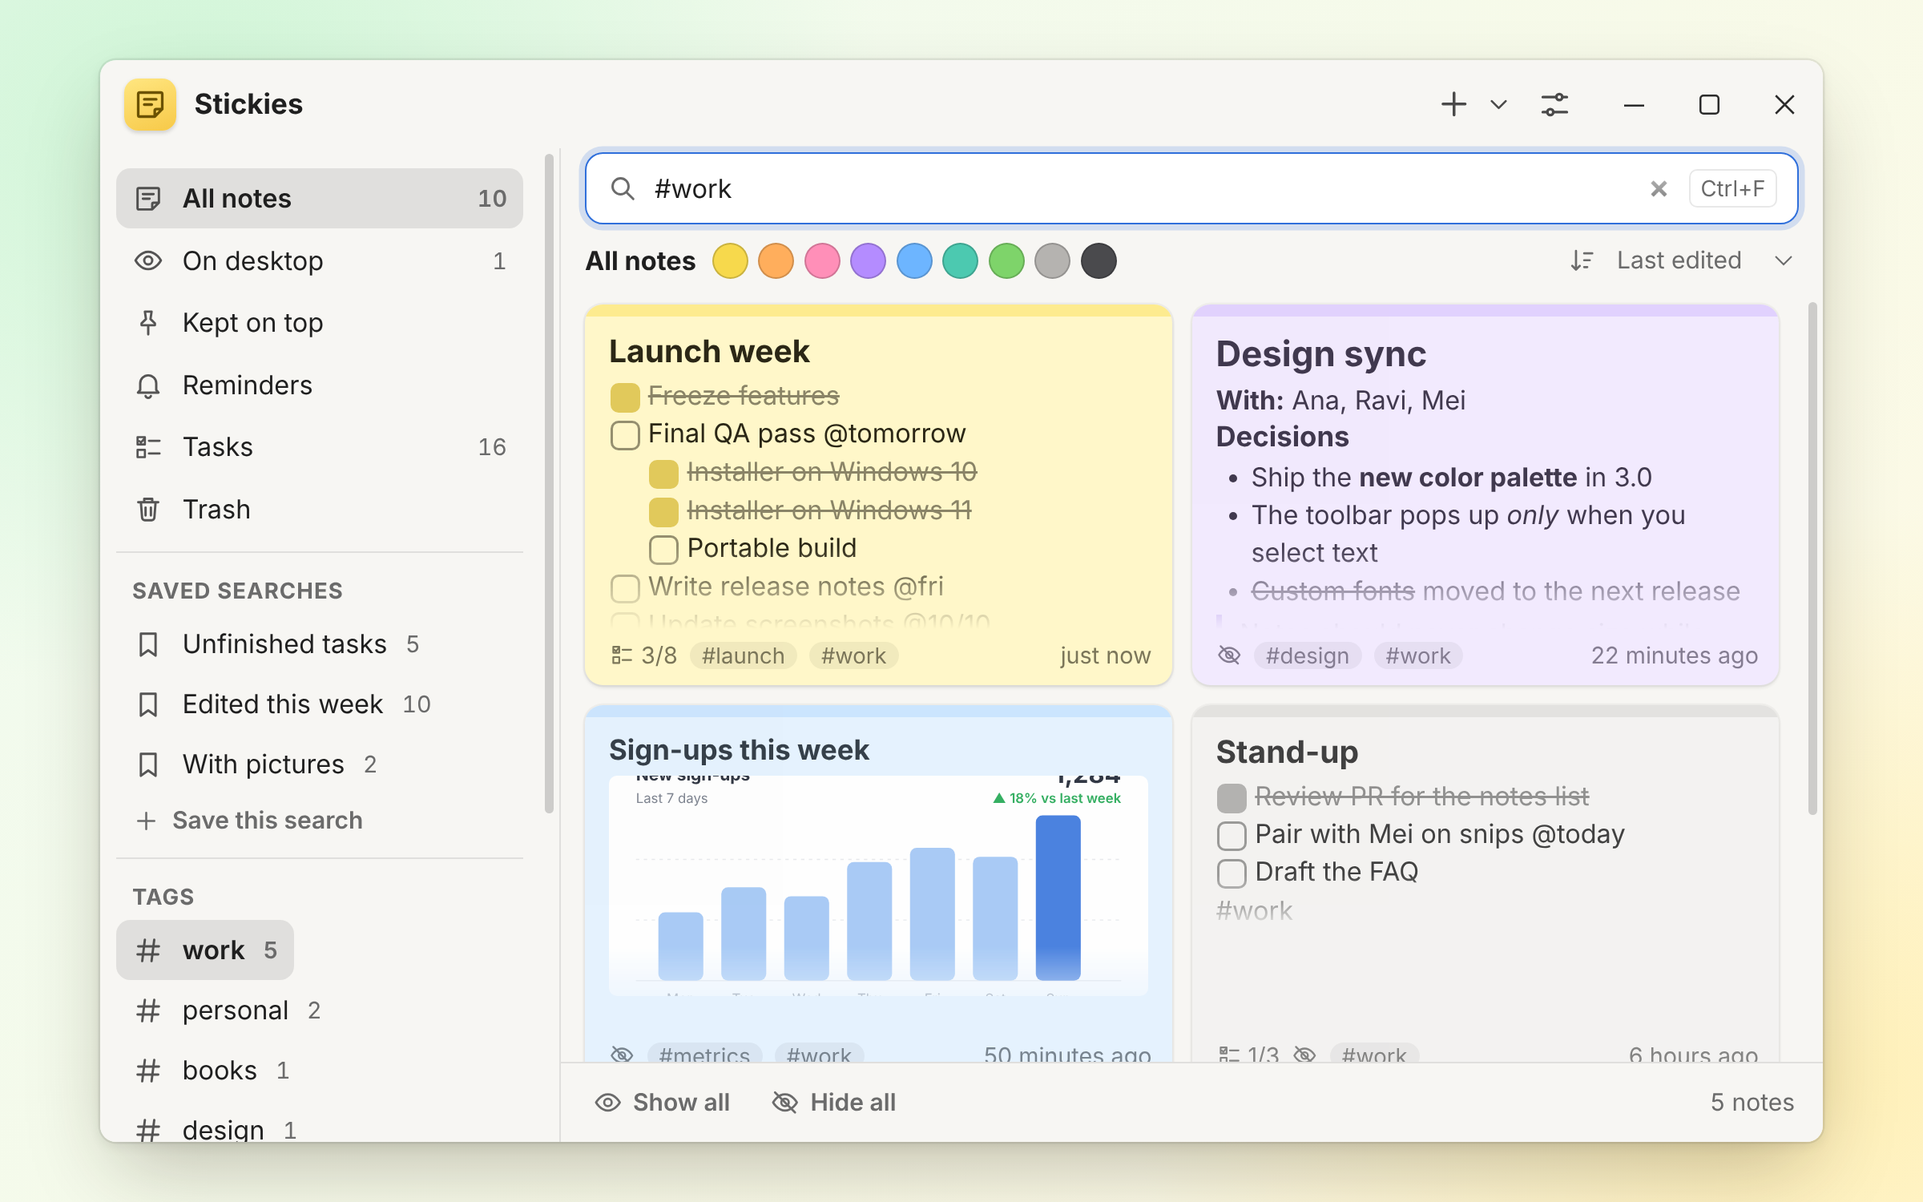
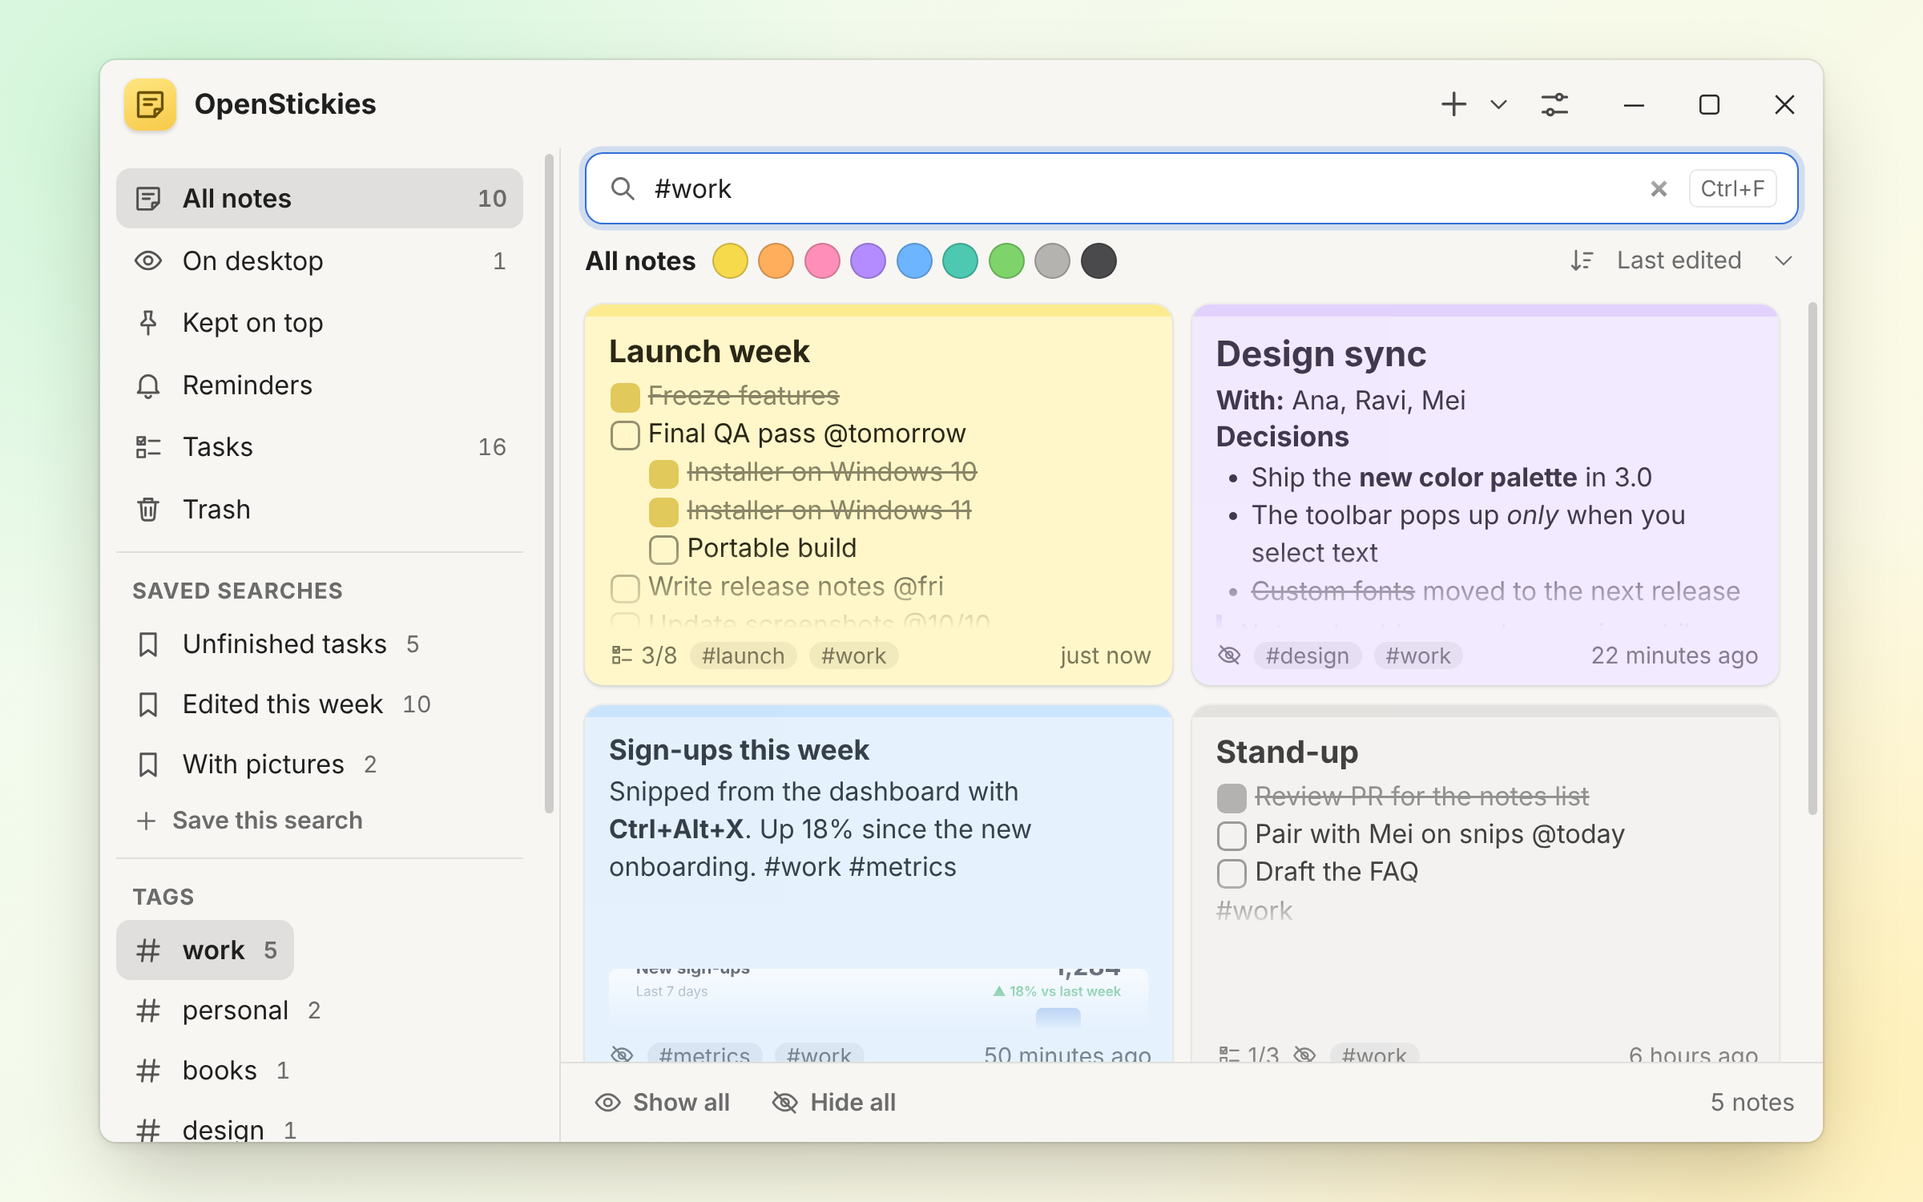
Use the OpenStickies name in the app and run the data migration on start
- Window titles, the notes list app bar, tray tooltip and menu, backup
  file names and dialogs, history window and OpenCode plugin text now
  say OpenStickies. Identifiers stay as they are: app:// and sticky-img://
  URLs, the .stickies home folder, window.stickies, the stickies_* tools,
  the plugin's file name and the .stickies.json backup extension
- On first start, init() copies %APPDATA%\Stickies\data into the new
  folder before the store loads (skipped with STICKIES_USER_DATA). If the
  copy fails, a dialog says where the notes are and offers to quit or
  start without them
- After a migration, the old Stickies login item is removed and
  'launch at login' is registered for the new program if it was on
- The OpenCode plugin also reads %APPDATA%\OpenStickies\data\api.json
  and recognises the plan rule an older copy of itself added
- Regenerated the notes list and tasks screenshots for the new title

Claude-Session: https://claude.ai/code/session_01BZHiiskqCt7fiV7jpXCbn7

Changed region(s): [[0.3125, 0.644, 0.625, 0.8587], [0.0938, 0.0613, 0.1875, 0.092]]

diff --git a/src/integrations/opencode-plugin.js b/src/integrations/opencode-plugin.js
@@ -1,5 +1,5 @@
-// Stickies for OpenCode
-// ---------------------
+// OpenStickies for OpenCode
+// -------------------------
 // Mirrors what the OpenCode agent is doing into a sticky note on your Windows desktop:
 // one note per task (session), with the agent's to-do list as a checklist — done steps
 // ticked, the current step marked, and what's still left open. Sub-agents' to-do lists
@@ -7,23 +7,26 @@
 //
 // It also gives the agent tools to make notes on request: stickies_create, stickies_update,
 // stickies_check and stickies_list. The agent can only change notes it created.
-// While Stickies runs it asks the agent to plan every multi-part task as a to-do list, so
+// While OpenStickies runs it asks the agent to plan every multi-part task as a to-do list, so
 // each one gets a sticky (Settings → OpenCode → "Always plan multi-part tasks").
 //
-// Installed by Stickies (Settings → OpenCode → Connect) into ~/.config/opencode/plugins/.
-// Talks only to Stickies on 127.0.0.1, using the token Stickies writes to its api.json.
-// Does nothing if Stickies isn't running.
+// Installed by OpenStickies (Settings → OpenCode → Connect) into ~/.config/opencode/plugins/.
+// Talks only to OpenStickies on 127.0.0.1, using the token OpenStickies writes to its api.json.
+// Does nothing if OpenStickies isn't running.
 
 import { readFileSync, statSync } from 'node:fs';
 import { join, basename } from 'node:path';
 import { homedir } from 'node:os';
 
-// Stickies writes the same api.json to both places. The home-folder copy is the one to trust on
-// Windows: if Stickies was started by a packaged app (e.g. Claude Desktop), its AppData copy lands
-// in that app's private folder and can't be seen from here. Older Stickies builds only write AppData.
+// OpenStickies writes the same api.json to both places. The home-folder copy is the one to trust on
+// Windows: if OpenStickies was started by a packaged app (e.g. Claude Desktop), its AppData copy lands
+// in that app's private folder and can't be seen from here. Older builds only write AppData, and
+// builds from before the rename write it under %APPDATA%\Stickies rather than %APPDATA%\OpenStickies.
+const APPDATA = process.env.APPDATA || join(homedir(), 'AppData', 'Roaming');
 const API_FILES = process.env.STICKIES_API_FILE ? [process.env.STICKIES_API_FILE] : [
   join(homedir(), '.stickies', 'api.json'),
-  join(process.env.APPDATA || join(homedir(), 'AppData', 'Roaming'), 'Stickies', 'data', 'api.json')
+  join(APPDATA, 'OpenStickies', 'data', 'api.json'),
+  join(APPDATA, 'Stickies', 'data', 'api.json')
 ];
 
 // The most recently written file wins, so a copy left behind by an older run can't shadow a live one.
@@ -41,22 +44,26 @@ function readApi() {
 
 const isPlaceholderTitle = (t) => !t || /^(New|Child) session - /i.test(t);
 
-// Added to the agent's instructions while Stickies is running (Settings → OpenCode →
+// Added to the agent's instructions while OpenStickies is running (Settings → OpenCode →
 // "Always plan multi-part tasks"), so every task with more than one part gets a sticky.
 const PLAN_RULE = [
-  'The user\'s desktop sticky notes (Stickies) are connected to this session.',
+  'The user\'s desktop sticky notes (OpenStickies) are connected to this session.',
   'Whenever a request involves two or more distinct subtasks or steps, use the todowrite tool BEFORE starting the work',
   'to write the plan as a to-do list (one item per subtask), then keep it current: mark the item you are working on',
   'in_progress and mark each item completed as soon as it is done. Each to-do list appears as a sticky note on the user\'s desktop,',
   'so do this even for short tasks that have more than one part. Single-step requests and plain questions do not need a to-do list.'
 ].join(' ');
 
+// How to spot the rule among the agent's instructions so it is only added once. The second
+// marker is the wording used before the app was renamed, in case an older copy of this plugin added it.
+const PLAN_RULE_MARKERS = ['desktop sticky notes (OpenStickies)', 'desktop sticky notes (Stickies)'];
+
 // A note appears once a plan has at least this many items (across the task and its sub-agents).
 const MIN_ITEMS = 2;
 
 async function callStickies(method, route, body) {
   const api = readApi();
-  if (!api || !api.port || !api.token) throw new Error(`Can’t find Stickies on this PC (no ${API_FILES[0]}), so no note can be shown. Ask the user to start Stickies, or to quit and reopen it if it’s already open.`);
+  if (!api || !api.port || !api.token) throw new Error(`Can’t find OpenStickies on this PC (no ${API_FILES[0]}), so no note can be shown. Ask the user to start OpenStickies, or to quit and reopen it if it’s already open.`);
   let res;
   try {
     res = await fetch(`http://127.0.0.1:${api.port}${route}`, {
@@ -66,10 +73,10 @@ async function callStickies(method, route, body) {
       signal: AbortSignal.timeout(5000)
     });
   } catch {
-    throw new Error('Couldn’t reach Stickies. It may have just been closed; ask the user to start it.');
+    throw new Error('Couldn’t reach OpenStickies. It may have just been closed; ask the user to start it.');
   }
   const data = await res.json().catch(() => ({}));
-  if (!res.ok) throw new Error(data.error || `Stickies answered ${res.status}`);
+  if (!res.ok) throw new Error(data.error || `OpenStickies answered ${res.status}`);
   return data;
 }
 
@@ -87,7 +94,7 @@ async function makeTools(project) {
   const s = tool.schema;
   return {
     stickies_create: tool({
-      description: 'Put a sticky note on the user\'s Windows desktop (the Stickies app) so they can keep it in view while they work. Use it when the user asks for a sticky/note, or for plans, checklists, summaries, commands or reminders they want to keep handy. Content is Markdown: "- [ ] task" makes a checkbox, "- [x] task" a ticked one, "# " headings, **bold**, `code`, links. Returns the note id for stickies_update and stickies_check.',
+      description: 'Put a sticky note on the user\'s Windows desktop (the OpenStickies app) so they can keep it in view while they work. Use it when the user asks for a sticky/note, or for plans, checklists, summaries, commands or reminders they want to keep handy. Content is Markdown: "- [ ] task" makes a checkbox, "- [x] task" a ticked one, "# " headings, **bold**, `code`, links. Returns the note id for stickies_update and stickies_check.',
       args: {
         title: s.string().describe('Short title shown at the top of the note'),
         content: s.string().describe('Note body in Markdown. Use "- [ ] item" lines for a checklist.'),
@@ -189,7 +196,7 @@ export const StickiesPlugin = async ({ directory, worktree }) => {
         signal: AbortSignal.timeout(3000)
       });
       if (res.ok) root.shown = true;
-    } catch { /* Stickies closed or busy: the next update will catch up */ }
+    } catch { /* OpenStickies closed or busy: the next update will catch up */ }
   }
 
   const schedule = (id) => {
@@ -205,8 +212,8 @@ export const StickiesPlugin = async ({ directory, worktree }) => {
     'experimental.chat.system.transform': async (_input, output) => {
       if (!output || !Array.isArray(output.system)) return;
       const api = readApi();
-      if (!api || (api.options && api.options.planNudge === false)) return; // Stickies off, or the user turned this off
-      if (!output.system.some(s => typeof s === 'string' && s.includes('desktop sticky notes (Stickies)'))) output.system.push(PLAN_RULE);
+      if (!api || (api.options && api.options.planNudge === false)) return; // OpenStickies off, or the user turned this off
+      if (!output.system.some(s => typeof s === 'string' && PLAN_RULE_MARKERS.some(m => s.includes(m)))) output.system.push(PLAN_RULE);
     },
     event: async ({ event }) => {
       const p = (event && event.properties) || {};

diff --git a/src/main/main.js b/src/main/main.js
@@ -22,6 +22,7 @@ const ocr = require('./ocr');
 const scan = require('./html-scan');
 const { htmlToText, titleFromText } = require('./store-text');
 const exporter = require('./exporter');
+const { migrateLegacyData, LEGACY_LOGIN_ITEM } = require('./migrate');
 const palette = require('../renderer/shared/colors.json');
 
 const isDev = process.argv.includes('--dev');
@@ -85,12 +86,34 @@ function init() {
   if (process.argv.includes('--quit')) { app.quit(); return; }
   Menu.setApplicationMenu(null);
 
+  // The app used to be called Stickies: bring its notes over on the first start. Runs with their
+  // own data folder (STICKIES_USER_DATA, used for testing) leave the old folder alone.
+  const moved = process.env.STICKIES_USER_DATA
+    ? { migrated: false }
+    : migrateLegacyData({ appData: app.getPath('appData'), userData: app.getPath('userData') });
+  if (moved.error) {
+    const choice = dialog.showMessageBoxSync({
+      type: 'error',
+      title: 'OpenStickies',
+      message: 'Your notes couldn’t be brought over from Stickies',
+      detail: `They’re safe where they were, in ${moved.from}\n\n${moved.error.message}\n\n` +
+        'Quit and try again, or start without them. To bring them over later, quit OpenStickies and copy that folder’s contents into ' +
+        `${path.join(app.getPath('userData'), 'data')}.`,
+      buttons: ['Quit', 'Start without them'],
+      defaultId: 0,
+      cancelId: 0,
+      noLink: true
+    });
+    if (choice === 0) { app.quit(); return; }
+  }
+
   const dataDir = path.join(app.getPath('userData'), 'data');
   fs.mkdirSync(dataDir, { recursive: true });
   history = new History(dataDir);
   store = new Store(dataDir);
   store.extraRefs.push(() => history.refs()); // before load(): load() cleans up unused images
   store.load();
+  if (moved.migrated) carryOverLoginItem();
   vault = new Vault(dataDir);
   nativeTheme.themeSource = store.settings.theme;
   session.defaultSession.setSpellCheckerEnabled(!!store.settings.spellcheck);
@@ -232,6 +255,12 @@ function setLoginItem(enabled) {
   if (process.env.PORTABLE_EXECUTABLE_FILE) opts.path = process.env.PORTABLE_EXECUTABLE_FILE;
   else if (!app.isPackaged) { opts.path = process.execPath; opts.args = [path.resolve(SRC, '..'), '--hidden']; }
   app.setLoginItemSettings(opts);
+}
+
+// "Launch at login" came across in the settings, but Windows' entry still starts the old program.
+function carryOverLoginItem() {
+  if (process.platform === 'win32') app.setLoginItemSettings({ openAtLogin: false, name: LEGACY_LOGIN_ITEM });
+  if (store.settings.launchAtLogin) setLoginItem(true);
 }
 
 function setUserTasks() {

diff --git a/src/main/tray.js b/src/main/tray.js
@@ -8,7 +8,7 @@ function createTray({ windows, store, vault, workspaces, assetsDir, onQuit, onSn
   const hiDpi = path.join(assetsDir, 'tray@2x.png');
   try { img.addRepresentation({ scaleFactor: 2, buffer: require('fs').readFileSync(hiDpi) }); } catch { /* optional */ }
   const tray = new Tray(img);
-  tray.setToolTip('Stickies');
+  tray.setToolTip('OpenStickies');
 
   const rebuild = () => {
     const active = store.active();
@@ -43,7 +43,7 @@ function createTray({ windows, store, vault, workspaces, assetsDir, onQuit, onSn
       { type: 'separator' },
       { label: 'Settings…', click: () => windows.openManager('settings') },
       { type: 'separator' },
-      { label: `Quit Stickies`, click: onQuit }
+      { label: `Quit OpenStickies`, click: onQuit }
     );
     const menu = Menu.buildFromTemplate(template);
     tray.setContextMenu(menu);
@@ -66,8 +66,8 @@ function createTray({ windows, store, vault, workspaces, assetsDir, onQuit, onSn
         tray.displayBalloon({
           iconType: 'custom',
           icon: nativeImage.createFromPath(path.join(assetsDir, 'icon.png')),
-          title: 'Stickies is in your system tray',
-          content: 'Click the ^ arrow at the right end of the taskbar, then drag the yellow Stickies icon onto the taskbar to keep it visible. Click it any time to bring your notes back.'
+          title: 'OpenStickies is in your system tray',
+          content: 'Click the ^ arrow at the right end of the taskbar, then drag the yellow OpenStickies icon onto the taskbar to keep it visible. Click it any time to bring your notes back.'
         });
       } catch { /* balloons unsupported */ }
       store.updateSettings({ trayHintShown: true });

diff --git a/src/main/exporter.js b/src/main/exporter.js
@@ -154,8 +154,8 @@ async function exportBackup({ parent, store, vault }) {
   const stamp = new Date().toISOString().slice(0, 10);
   const { canceled, filePath } = await dialog.showSaveDialog(parent, {
     title: 'Back up all notes',
-    defaultPath: path.join(app.getPath('documents'), `Stickies backup ${stamp}.stickies.json`),
-    filters: [{ name: 'Stickies backup', extensions: ['json'] }]
+    defaultPath: path.join(app.getPath('documents'), `OpenStickies backup ${stamp}.stickies.json`),
+    filters: [{ name: 'OpenStickies backup', extensions: ['json'] }]
   });
   if (canceled || !filePath) return { ok: false, canceled: true };
   const attachments = {};
@@ -178,13 +178,13 @@ async function exportBackup({ parent, store, vault }) {
 async function importBackup({ parent, store, vault }) {
   const { canceled, filePaths } = await dialog.showOpenDialog(parent, {
     title: 'Restore notes from backup',
-    filters: [{ name: 'Stickies backup', extensions: ['json'] }],
+    filters: [{ name: 'OpenStickies backup', extensions: ['json'] }],
     properties: ['openFile']
   });
   if (canceled || !filePaths.length) return { ok: false, canceled: true };
   const data = JSON.parse(fs.readFileSync(filePaths[0], 'utf8'));
   const notes = Array.isArray(data.notes) ? data.notes : (Array.isArray(data) ? data : null);
-  if (!notes) throw new Error('That file is not a Stickies backup.');
+  if (!notes) throw new Error('That file is not an OpenStickies backup.');
   // A backup can come from anywhere, so never trust its file names or contents: only real
   // image bytes are accepted, and each is stored under the hash of what it actually contains.
   const renamed = new Map();

diff --git a/src/renderer/manager/manager.js b/src/renderer/manager/manager.js
@@ -88,7 +88,7 @@ function setView(view) {
   $('view-settings').hidden = true;
   $('btn-back').hidden = true;
   $('btn-settings').hidden = false;
-  $('appbar-title').textContent = 'Stickies';
+  $('appbar-title').textContent = 'OpenStickies';
   $('view-list').hidden = view === 'tasks';
   $('view-tasks').hidden = view !== 'tasks';
   closeDrawer();
@@ -108,7 +108,7 @@ async function renderOpenCode() {
     : '<button class="btn primary" id="oc-connect">Connect</button>';
   const foot = st.connected
     ? 'Restart OpenCode after connecting. Task notes are locked so typing can’t clash with the agent, and they’re tagged #opencode and with the project name.'
-    : 'Connecting adds a small plugin to OpenCode (in your user folder) that talks only to Stickies on this PC.';
+    : 'Connecting adds a small plugin to OpenCode (in your user folder) that talks only to OpenStickies on this PC.';
   $('opencode-card').innerHTML = `
     <div class="row">
       <div class="row-label">${icon('checklist', { size: 17 })}<div>
@@ -849,7 +849,7 @@ function buildSettings(s) {
   $('md-shortcuts').innerHTML = MD_SHORTCUTS.map(([a, b]) => `<div>${escapeHtml(a)}</div><div class="k"><kbd>${escapeHtml(b)}</kbd></div>`).join('');
   $('search-tips').innerHTML = SEARCH_TIPS.map(([a, b]) => `<div>${escapeHtml(a)}</div><div class="k"><kbd>${escapeHtml(b)}</kbd></div>`).join('');
   $('data-dir').textContent = s.dataDir;
-  $('about').innerHTML = `Stickies ${escapeHtml(s.version)}<br>Your notes are stored only on this computer.`;
+  $('about').innerHTML = `OpenStickies ${escapeHtml(s.version)}<br>Your notes are stored only on this computer.`;
   syncSettingsUi();
 }
 

diff --git a/src/renderer/manager/manager.html b/src/renderer/manager/manager.html
@@ -3,14 +3,14 @@
 <head>
   <meta charset="utf-8">
   <meta http-equiv="Content-Security-Policy" content="default-src 'self'; script-src 'self'; style-src 'self' 'unsafe-inline'; img-src 'self' sticky-img: data: blob: https: http:; connect-src 'self'; font-src 'self' data:; object-src 'none'; base-uri 'none'; form-action 'none'; frame-src 'none'">
-  <title>Stickies</title>
+  <title>OpenStickies</title>
   <link rel="stylesheet" href="../shared/base.css">
   <link rel="stylesheet" href="manager.css">
 </head>
 <body>
   <header class="appbar">
     <button class="icon-btn" id="btn-sidebar" title="Show sidebar"><i data-icon="menu" data-size="18"></i></button>
-    <div class="brand"><span class="logo"><i data-icon="notes" data-size="18"></i></span><span id="appbar-title">Stickies</span></div>
+    <div class="brand"><span class="logo"><i data-icon="notes" data-size="18"></i></span><span id="appbar-title">OpenStickies</span></div>
     <div class="appbar-actions">
       <button class="icon-btn" id="btn-back" title="Back to notes" hidden><i data-icon="chevronLeft" data-size="18"></i></button>
       <div class="split">

diff --git a/src/renderer/history/history.js b/src/renderer/history/history.js
@@ -42,7 +42,7 @@ function renderList() {
       <span class="w1">${escapeHtml(fmt(v.t, { hour: 'numeric', minute: '2-digit' }))}</span>
       <span class="w2">${escapeHtml(v.title || 'Untitled')} · ${v.words} word${v.words === 1 ? '' : 's'}</span></button>`);
   }
-  if (!data.versions.length) rows.push('<div class="none">No earlier versions yet. Stickies keeps a copy each time you come back to edit this note after a few minutes away.</div>');
+  if (!data.versions.length) rows.push('<div class="none">No earlier versions yet. OpenStickies keeps a copy each time you come back to edit this note after a few minutes away.</div>');
   $('versions').innerHTML = rows.join('');
 }
 

diff --git a/src/main/api-server.js b/src/main/api-server.js
@@ -5,7 +5,7 @@
 // needs the token written to api.json — readable only from this Windows account.
 //
 // api.json goes to data/ and to any extra paths given. The extra copy matters on Windows: when
-// Stickies is started by a packaged (MSIX) app such as Claude Desktop, Windows quietly redirects
+// OpenStickies is started by a packaged (MSIX) app such as Claude Desktop, Windows quietly redirects
 // its AppData writes into that app's private folder, so other programs never see data/api.json.
 //
 //   GET  /v1/ping                      → { ok, app, version }            (no token needed)

diff --git a/src/main/windows.js b/src/main/windows.js
@@ -532,7 +532,7 @@ class WindowManager {
       minWidth: 320,
       minHeight: 400,
       show: false,
-      title: 'Stickies',
+      title: 'OpenStickies',
       icon: this.icon,
       backgroundColor: dark ? '#1f1f22' : '#f7f6f3',
       titleBarStyle: 'hidden',

diff --git a/src/main/opencode.js b/src/main/opencode.js
@@ -1,6 +1,6 @@
 'use strict';
 
-// Installs/removes the Stickies plugin in OpenCode's global plugin folder.
+// Installs/removes the OpenStickies plugin in OpenCode's global plugin folder.
 
 const fs = require('fs');
 const os = require('os');
